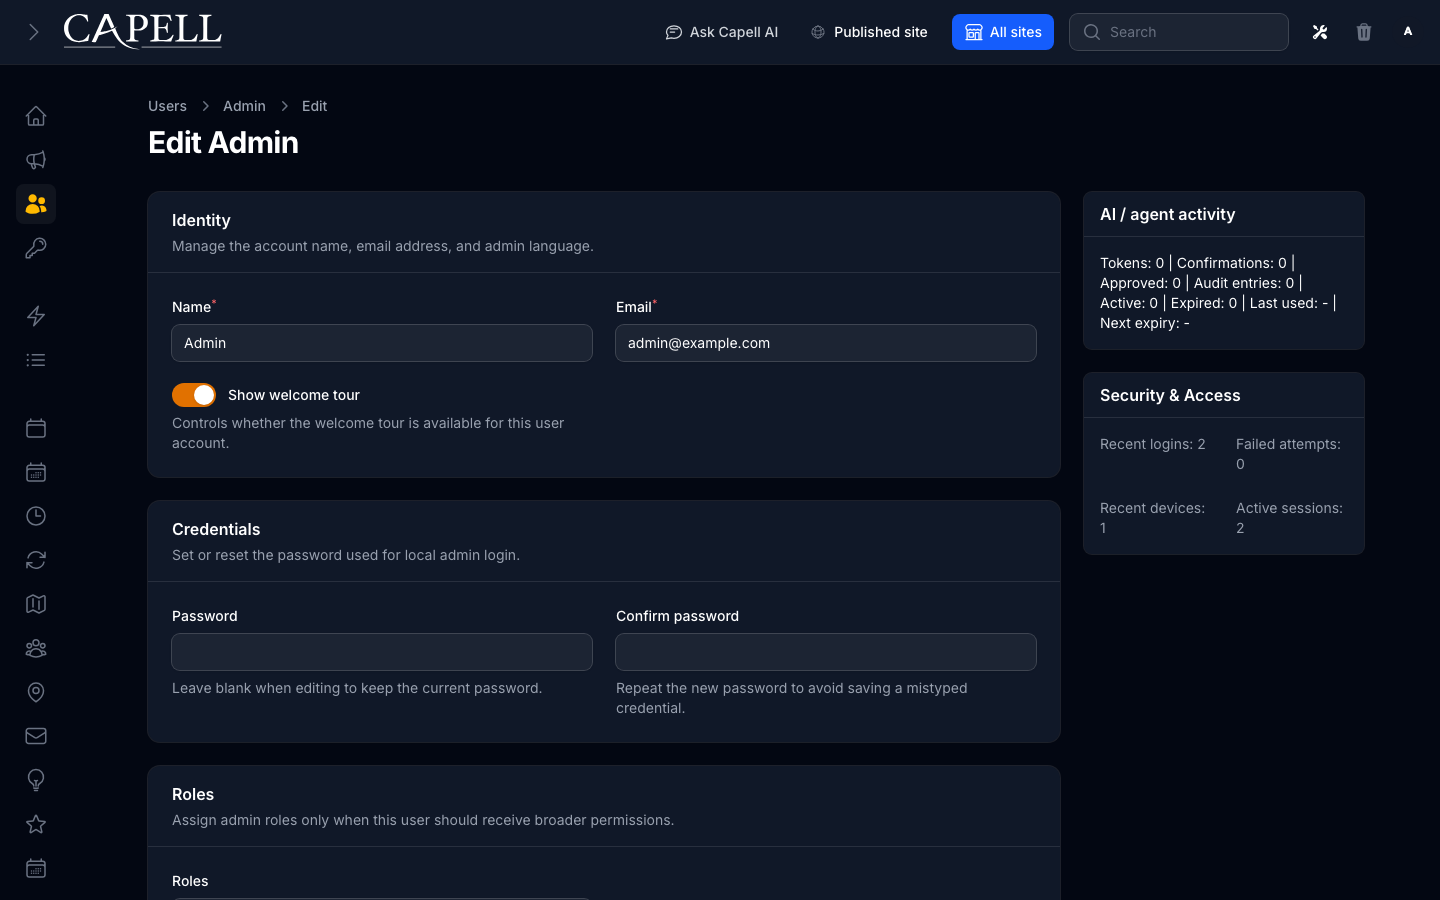
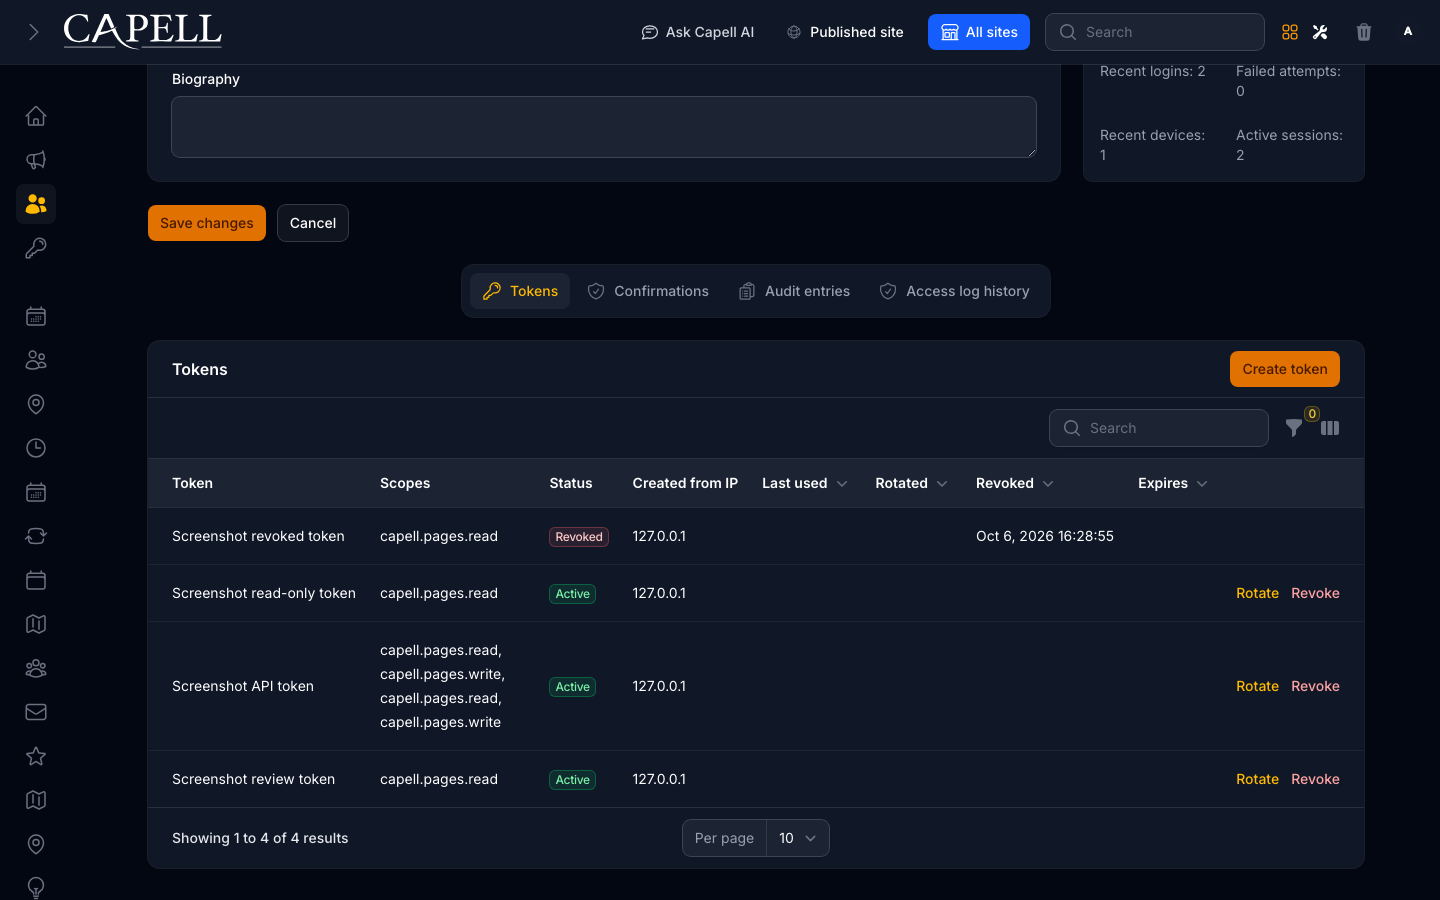
Release v1.1.4

diff --git a/src/Actions/PrepareAgentBridgeScreenshotAction.php b/src/Actions/PrepareAgentBridgeScreenshotAction.php
@@ -18,18 +18,39 @@ final class PrepareAgentBridgeScreenshotAction
         throw_unless(app()->environment('local', 'testing') && getenv('CAPELL_SCREENSHOT_FIXTURE') === 'record-state', RuntimeException::class, 'Agent Bridge screenshot fixtures require the disposable screenshot environment.');
 
         (new CapellAgentBridgeToken)->getConnection()->transaction(static function () use ($user): void {
-            $token = CapellAgentBridgeToken::query()->firstOrNew([
-                'name' => 'Screenshot review token',
-                'user_type' => $user->getMorphClass(),
-                'user_id' => $user->getKey(),
-            ]);
-            $token->forceFill([
-                'user_type' => $user->getMorphClass(),
-                'user_id' => $user->getKey(),
-                'token_hash' => CapellAgentBridgeToken::hashPlainTextToken(Str::random(64)),
-                'scopes' => ['capell.pages.read'],
-                'is_enabled' => false,
-            ])->save();
+            $tokenDefinitions = [
+                ['name' => 'Screenshot review token', 'scopes' => ['capell.pages.read'], 'revoked_at' => null],
+                ['name' => 'Screenshot API token', 'scopes' => ['capell.pages.read', 'capell.pages.write'], 'revoked_at' => null],
+                ['name' => 'Screenshot read-only token', 'scopes' => ['capell.pages.read'], 'revoked_at' => null],
+                ['name' => 'Screenshot revoked token', 'scopes' => ['capell.pages.read'], 'revoked_at' => now()->subHour()],
+            ];
+
+            $token = null;
+
+            foreach ($tokenDefinitions as $tokenDefinition) {
+                $screenshotToken = CapellAgentBridgeToken::query()->firstOrNew([
+                    'name' => $tokenDefinition['name'],
+                    'user_type' => $user->getMorphClass(),
+                    'user_id' => $user->getKey(),
+                ]);
+                $screenshotToken->forceFill([
+                    'user_type' => $user->getMorphClass(),
+                    'user_id' => $user->getKey(),
+                    'token_hash' => CapellAgentBridgeToken::hashPlainTextToken(Str::random(64)),
+                    'scopes' => $tokenDefinition['scopes'],
+                    'is_enabled' => true,
+                    'revoked_at' => $tokenDefinition['revoked_at'],
+                    'created_from_ip' => '127.0.0.1',
+                    'expires_at' => null,
+                    'rotated_at' => null,
+                ])->save();
+
+                if ($tokenDefinition['name'] === 'Screenshot review token') {
+                    $token = $screenshotToken;
+                }
+            }
+
+            throw_unless($token instanceof CapellAgentBridgeToken, RuntimeException::class, 'The screenshot review token was not prepared.');
 
             $confirmation = CapellAgentBridgeConfirmation::query()->firstOrNew([
                 'agent_bridge_token_id' => $token->getKey(),

diff --git a/tests/Feature/PromptBuilderPageTest.php b/tests/Feature/PromptBuilderPageTest.php
@@ -22,6 +22,7 @@ use Capell\AgentBridge\Models\CapellAgentBridgeToken;
 use Capell\AgentBridge\Support\CapellAgentBridgeCapabilityRegistry;
 use Capell\AgentBridge\Tests\Fixtures\FakeCapabilityAction;
 use Capell\AgentBridge\Tests\Fixtures\User;
+use Capell\Tests\Support\ScreenshotManifest;
 use Filament\Facades\Filament;
 use Filament\Panel;
 use Filament\Support\Facades\FilamentView;
@@ -55,7 +56,13 @@ it('renders distinct seeded token confirmation and audit relation tables', funct
             ->assertSee('capell.pages.inspect')->assertSee(__('capell-agent-bridge::admin.expires_at'))->assertDontSee('screenshot.previewed');
         Livewire::test(AgentBridgeAuditEntriesRelationManager::class, $parameters)
             ->assertSee('screenshot.previewed')->assertDontSee('Screenshot review token');
-        expect(CapellAgentBridgeToken::query()->firstOrFail()->is_enabled)->toBeFalse();
+        expect(CapellAgentBridgeToken::query()->where('user_id', $user->getKey())->count())->toBe(4)
+            ->and(CapellAgentBridgeToken::query()->where('user_id', $user->getKey())->where('is_enabled', true)->whereNull('revoked_at')->count())->toBe(3)
+            ->and(CapellAgentBridgeToken::query()->where('user_id', $user->getKey())->whereNotNull('revoked_at')->count())->toBe(1);
+        $entry = ScreenshotManifest::entry(__DIR__ . '/../../docs/screenshots.json', 'token-management-or-setup-surface');
+        expect($entry['beforeWait'] ?? [])->toContain(
+            ['type' => 'click', 'selector' => '.fi-tabs-item:has-text("Tokens")'],
+        )->and($entry['fullPage'] ?? false)->toBeTrue();
     } finally {
         putenv('CAPELL_SCREENSHOT_FIXTURE');
     }
